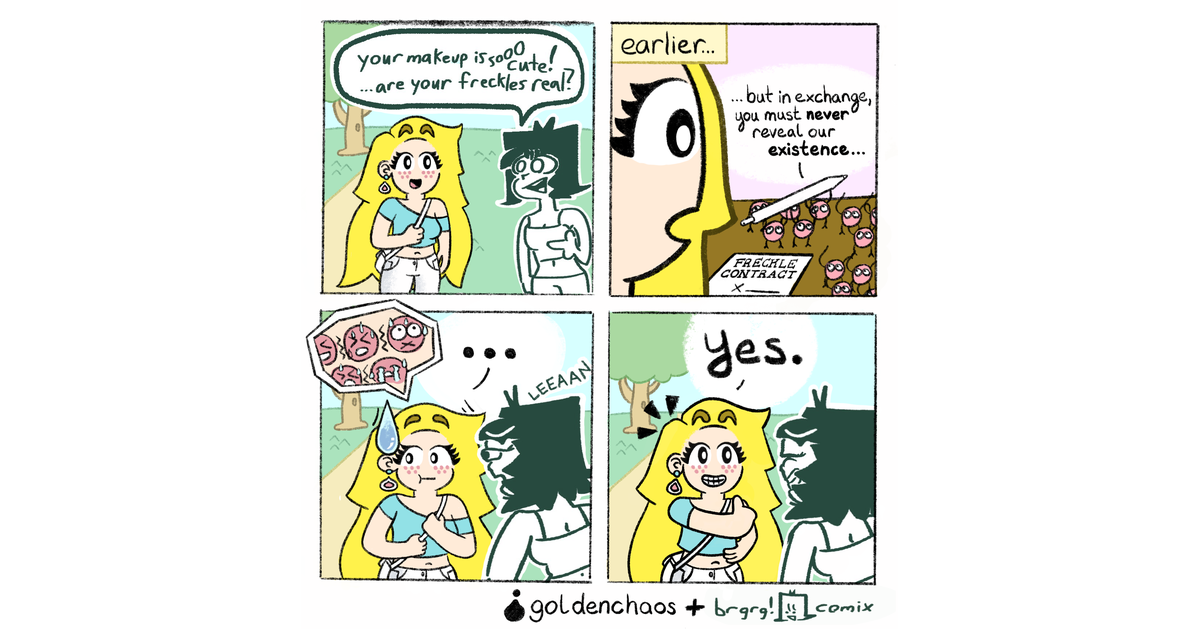
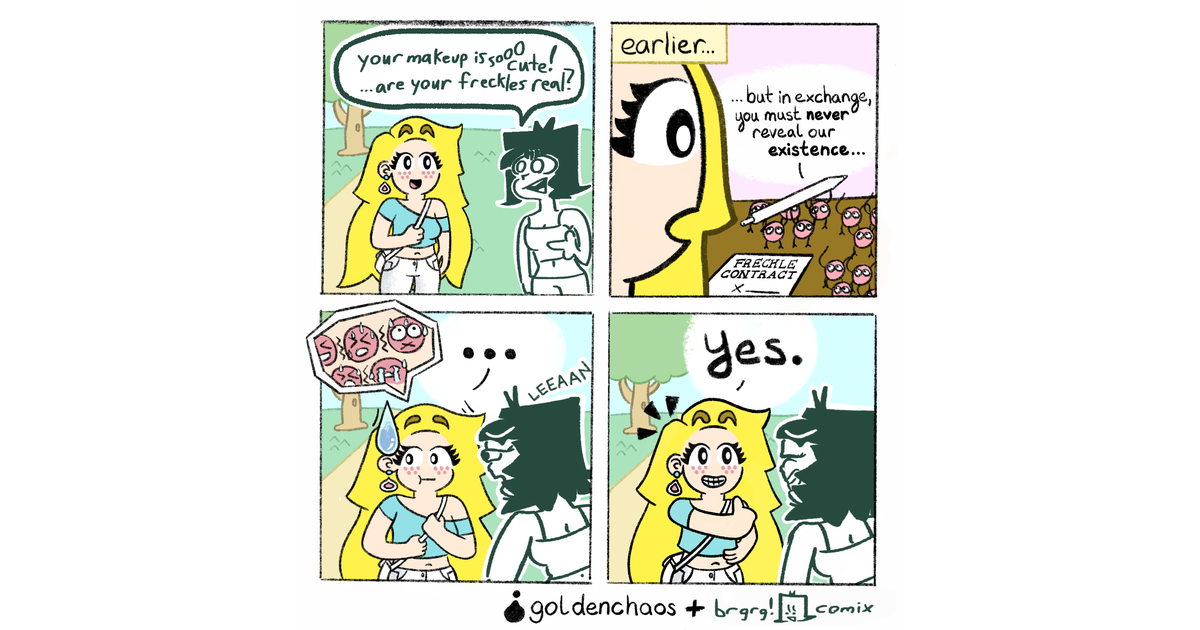
comic 7 - ally

diff --git a/_site/comics/index.html b/_site/comics/index.html
@@ -10,7 +10,7 @@
         gtag('config', 'UA-317947-1');
     </script>
     <meta charset="utf-8">
-    <title>GoldenChaos Comics - Latest Comic - #6 Gay</title>
+    <title>GoldenChaos Comics - Latest Comic - #7 Ally</title>
     <meta name="description" content="Comics by Jess Rappaport!">
 
         
@@ -26,20 +26,20 @@
         <!-- Facebook / Open Graph -->
         <meta property="og:url" content="https://goldenchaos.net/comics/">
         <meta property="og:type" content="website">
-        <meta property="og:title" content="GoldenChaos Comics - Latest Comic - #6 Gay">
+        <meta property="og:title" content="GoldenChaos Comics - Latest Comic - #7 Ally">
         <meta property="og:description" content="Comics by Jess Rappaport!">
-        <meta property="og:image" content="https://goldenchaos.net/images/comics/6_gay.png">
+        <meta property="og:image" content="https://goldenchaos.net/images/comics/7_ally.png">
         <meta property="og:image:alt" content="Comics by Jess Rappaport!">
 
     <!-- Twitter -->
     <meta name="twitter:card" content="summary_large_image">
     <meta property="twitter:domain" content="goldenchaos.net">
     <meta property="twitter:url" content="https://goldenchaos.net/comics/">
-    <meta name="twitter:title" content="GoldenChaos Comics - Latest Comic - #6 Gay">
+    <meta name="twitter:title" content="GoldenChaos Comics - Latest Comic - #7 Ally">
     <meta name="twitter:description" content="Comics by Jess Rappaport!">
     <meta name="twitter:site" content="@GoldenChaos">
     <meta name="twitter:creator" content="@GoldenChaos">
-    <meta name="twitter:image" content="https://goldenchaos.net/images/comics/og/6_gay-og.png">
+    <meta name="twitter:image" content="https://goldenchaos.net/images/comics/og/7_ally-og.png">
     <meta name="twitter:image:alt" content="Comics by Jess Rappaport!">
         <link rel="alternate" type="application/rss+xml" title="GoldenChaos Comics RSS" href="/comics/feed.xml">
 
@@ -143,17 +143,14 @@
   <h1 id="comics" class="title" style="text-align:center;margin:0;text-transform:none;">Latest Comic</h1>
 </div>
 <div class="content index page" id="comic-title">
-  <h2 class="title" style="text-align:center;margin:0;text-transform:none;">#6 - Gay</h2>
+  <h2 class="title" style="text-align:center;margin:0;text-transform:none;">#7 - Ally</h2>
 </div>
 <div class="content page" style="text-align:center;">
   <img
-    src="/images/comics/6_gay.png"
-    data-normal-image="/images/comics/6_gay.png"
-    data-bald-image="/images/comics/bald/6_gay-bald.png"
-    alt="6 - Gay" title="&quot;I&#39;m a lesbian...&quot;
-&quot;...&quot;
-&quot;I like women...&quot;
-&quot;???&quot;"
+    src="/images/comics/7_ally.png"
+    data-normal-image="/images/comics/7_ally.png"
+    
+    alt="7 - Ally" title="&quot;She&#39;ll always be my niece to me.&quot;"
     class="comic-img">
   <div class="segmented-control">
     <a href="/comics/1/" onclick="if(typeof gtag!=='undefined')gtag('event','comic_navigation',{'event_category':'engagement','event_label':'first'})">
@@ -162,7 +159,7 @@
         First
       </center>
     </a>
-    <a href="/comics/5/" onclick="if(typeof gtag!=='undefined')gtag('event','comic_navigation',{'event_category':'engagement','event_label':'previous'})">
+    <a href="/comics/6/" onclick="if(typeof gtag!=='undefined')gtag('event','comic_navigation',{'event_category':'engagement','event_label':'previous'})">
       <center>
         <i class="fa-solid fa-backward"></i>
         Previous
@@ -257,7 +254,7 @@ function showCopied(buttonId, success) {
   }, 2000);
 }
 async function copyComicLink() {
-  const link = window.location.origin + '/comics/6/';
+  const link = window.location.origin + '/comics/7/';
   const ok = await copyWithFallback(link);
   showCopied('copyBtn', ok);
   if (ok && typeof gtag !== 'undefined') {
@@ -269,7 +266,7 @@ async function copyComicLink() {
 }
 async function copyComicImageLink() {
   const img = document.querySelector('.comic-img');
-  const src = img ? img.getAttribute('src') : '/images/comics/6_gay.png';
+  const src = img ? img.getAttribute('src') : '/images/comics/7_ally.png';
   const fullURL = new URL(src, window.location.origin).href;
   const ok = await copyWithFallback(fullURL);
   showCopied('copyImgBtn', ok);

diff --git a/_site/index.html b/_site/index.html
@@ -183,18 +183,15 @@
     <h1 id="comics" class="title" style="text-align:center;margin:0;text-transform:none;">Latest Comic</h1>
 </div>
 <div class="content index page" id="comic-title">
-    <h2 class="title" style="text-align:center;margin:0;text-transform:none;">#6 - Gay</h2>
+    <h2 class="title" style="text-align:center;margin:0;text-transform:none;">#7 - Ally</h2>
 </div>
 <div class="content page" style="text-align:center;">
     <a href="/comics/">
         <img
-            src="/images/comics/6_gay.png"
-            data-normal-image="/images/comics/6_gay.png"
-            data-bald-image="/images/comics/bald/6_gay-bald.png"
-            alt="6 - Gay" title="&quot;I&#39;m a lesbian...&quot;
-&quot;...&quot;
-&quot;I like women...&quot;
-&quot;???&quot;"
+            src="/images/comics/7_ally.png"
+            data-normal-image="/images/comics/7_ally.png"
+            
+            alt="7 - Ally" title="&quot;She&#39;ll always be my niece to me.&quot;"
             class="comic-img">
     </a>
     <div class="segmented-control">
@@ -204,7 +201,7 @@
                 First
             </center>
         </a>
-        <a href="/comics/5/" onclick="if(typeof gtag!=='undefined')gtag('event','comic_navigation',{'event_category':'engagement','event_label':'previous'})">
+        <a href="/comics/6/" onclick="if(typeof gtag!=='undefined')gtag('event','comic_navigation',{'event_category':'engagement','event_label':'previous'})">
             <center>
                 <i class="fa-solid fa-backward"></i>
                 Previous
@@ -381,7 +378,7 @@ function showCopied(buttonId, success) {
 }
 
 async function copyComicLink() {
-    const link = window.location.origin + '/comics/6/';
+    const link = window.location.origin + '/comics/7/';
     const ok = await copyWithFallback(link);
     showCopied('copyBtn', ok);
     if (ok && typeof gtag !== 'undefined') {

diff --git a/_site/comics/all/index.html b/_site/comics/all/index.html
@@ -28,7 +28,7 @@
         <meta property="og:type" content="website">
         <meta property="og:title" content="GoldenChaos Comics - All Comics">
         <meta property="og:description" content="GoldenChaos Comics - All Comics">
-        <meta property="og:image" content="https://goldenchaos.net/images/comics/6_gay.png">
+        <meta property="og:image" content="https://goldenchaos.net/images/comics/7_ally.png">
         <meta property="og:image:alt" content="GoldenChaos Comics - All Comics">
 
     <!-- Twitter -->
@@ -39,7 +39,7 @@
     <meta name="twitter:description" content="GoldenChaos Comics - All Comics">
     <meta name="twitter:site" content="@GoldenChaos">
     <meta name="twitter:creator" content="@GoldenChaos">
-    <meta name="twitter:image" content="https://goldenchaos.net/images/comics/og/6_gay-og.png">
+    <meta name="twitter:image" content="https://goldenchaos.net/images/comics/og/7_ally-og.png">
     <meta name="twitter:image:alt" content="GoldenChaos Comics - All Comics">
         <link rel="alternate" type="application/rss+xml" title="GoldenChaos Comics RSS" href="/comics/feed.xml">
 
@@ -202,6 +202,19 @@
     }
   </style>
   <div class="comics-grid" style="margin-top: 32px; margin-bottom: 64px;">
+    
+    <div class="comic-item">
+      <a href="/comics/7/">
+        <div class="img-container">
+          <img
+            src="/images/comics/thumb/7_ally-thumb.png"
+            data-normal-image="/images/comics/thumb/7_ally-thumb.png"
+            
+            alt="Comic #7 - Ally">
+        </div>
+        <h3>#7 - Ally</h3>
+      </a>
+    </div>
     
     <div class="comic-item">
       <a href="/comics/6/">

diff --git a/_site/comics/1/index.html b/_site/comics/1/index.html
@@ -110,6 +110,8 @@
 
   
 
+  
+
 
 
   

diff --git a/_site/comics/2/index.html b/_site/comics/2/index.html
@@ -110,6 +110,8 @@
 
   
 
+  
+
 
   
 

diff --git a/_site/comics/3/index.html b/_site/comics/3/index.html
@@ -110,6 +110,8 @@
 
   
 
+  
+
 
   
 

diff --git a/_site/comics/4/index.html b/_site/comics/4/index.html
@@ -110,6 +110,8 @@
 
   
 
+  
+
 
   
 

diff --git a/generate_og_images.py b/generate_og_images.py
@@ -20,7 +20,8 @@ comics = [
     "3_yuri_mustache.png",
     "4_dont_tell_me_my_age.png",
     "5_freckles.png",
-    "6_gay.png"
+    "6_gay.png",
+    "7_ally.png"
 ]
 
 # Background color (white)

diff --git a/generate_thumbnails.py b/generate_thumbnails.py
@@ -18,7 +18,8 @@ comics = [
     "3_yuri_mustache.png",
     "4_dont_tell_me_my_age.png",
     "5_freckles.png",
-    "6_gay.png"
+    "6_gay.png",
+    "7_ally.png"
 ]
 
 for comic in comics:
